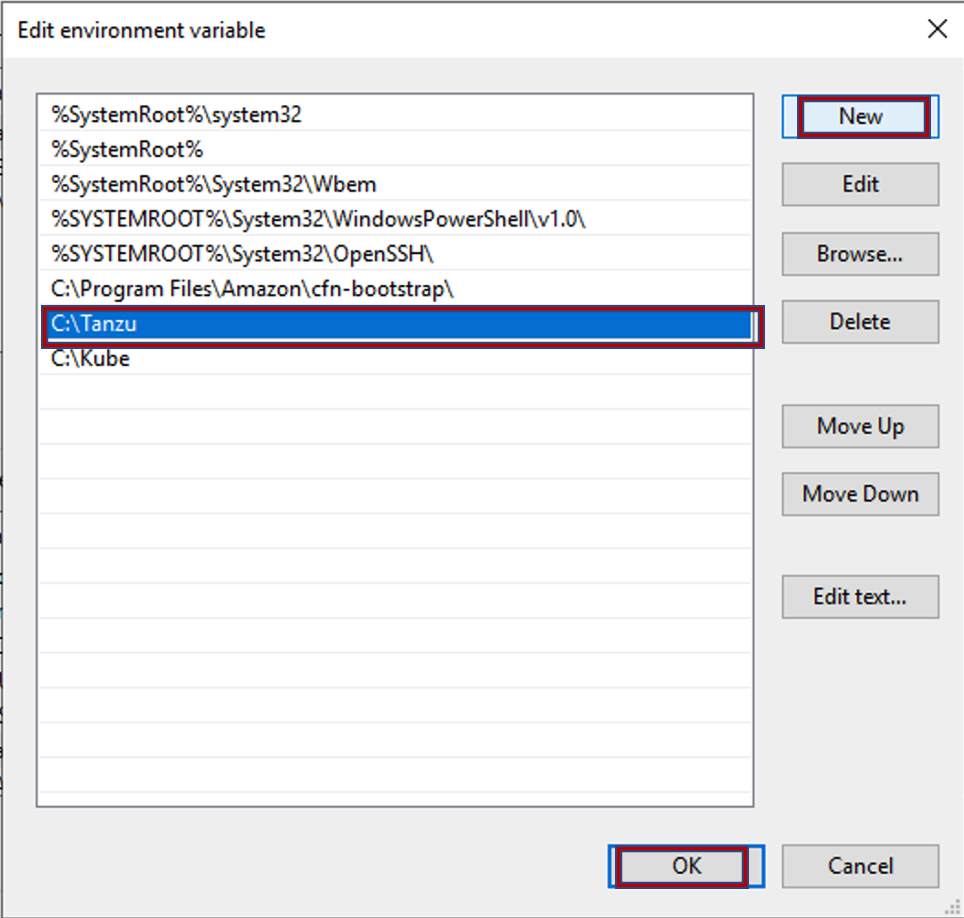
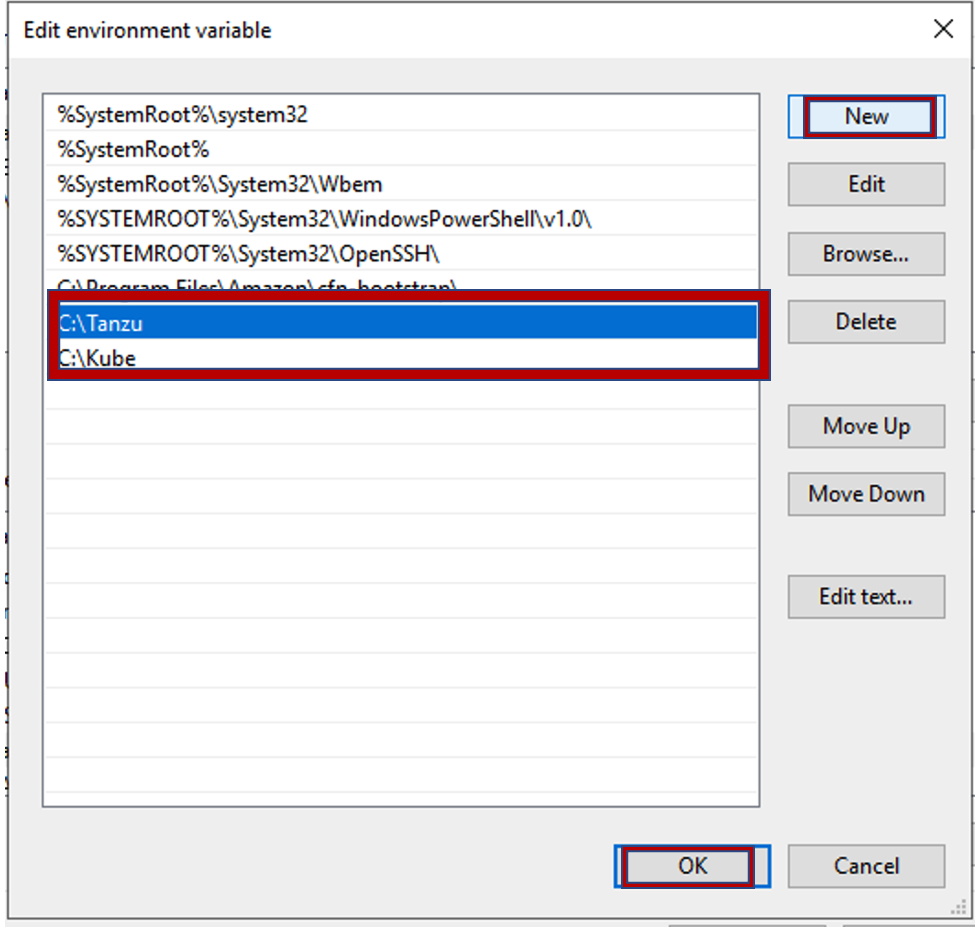
tanzu cli

Changed region(s): [[0.0, 0.0, 1.0, 1.0]]

diff --git a/docs/check.md b/docs/check.md
@@ -13,63 +13,48 @@ https://drive.google.com/drive/folders/1-z8_jvzTQd6FrGiGkFO5nyKsNA54l1ku 에서 
 ### 1. Putty 설치
 **0. 파일 준비** 에서 다운받은 putty를 클릭해 실행을 확인합니다.
 
-### 2. Tanzu CLI 설치
-C드라이브 아래에 tanzu 디렉토리를 생성하고, 다운로드한 Tanzu tar 파일 **(tanzu-framework-windows-amd64)** 을 이곳으로 이동시켜 압축을 해제합니다.  <br/>
+### 2. Tanzu CLI 준비
+**0. 파일 준비** 에서 받은 Tanzu CLI를 Windows 환경 변수에 추가하는 과정입니다.
 
+다운받은 Tanzu CLI 파일 **(tanzu-framework-windows-amd64)** 의 압축을 해제합니다. <br/>
+압축 해제 후 cli/core/v0.11.4 로 이동하면 tanzu-cre-windows_amd64 파일을 확인할 수 있습니다. <br/>
+![](../images/env_cli_00.png)
 
-Program Files\tanzu 디렉토리에서 실행 파일을 다음 위치로 이동하고 이름을 바꿉니다.
-
-기존 : Program Files\tanzu\cli\core\v0.11.2\tanzu-core-windows_amd64.exe
-<br/> 에서 <br>
-tar -xvf tanzu-framework-darwin-amd64.tar -C $HOME/tanzu
-
-
-Program Files 디렉토리에서 tanzu 디렉토리를 마우스 오른쪽 버튼으로 클릭하고 속성 > 보안을 선택합니다.
-
-사용자 계정에 모든 권한이 있는지 확인하십시오.
-
-Windows 검색을 사용하여 env를 검색합니다.
-
-시스템 환경 변수 편집을 선택하고 환경 변수를 클릭합니다.
-
-시스템 변수에서 경로 행을 선택하고 편집을 클릭하십시오.
-
-새로 만들기를 클릭하여 새 행을 추가하고 tanzu.exe의 경로를 입력합니다.
-
-환경 변수 TANZU_CLI_NO_INIT를 true로 설정하십시오.
-
-Program Files\tanzu 디렉토리의 터미널에서 다음을 실행하여 설치를 확인합니다.
-
-탄즈 버전
-예상되는 결과:
-
-버전: v0.11.2
-...
-Tanzu CLI 플러그인 설치/업데이트 진행
-
-### 3. kubectl CLI 설치
-**0. 파일 준비** 에서 받은 Kubectl을 Windows 환경 변수에 추가합니다.
-
-![](../images/env_set_00.png)
-C 드라이브 아래에 Kube라는 디렉토리를 생성하고, 다운받은 Kubectl 파일을 이곳으로 이동시킵니다. <br/>
-
-![](../images/env_set_01.png)
-Windows 키를 눌러 Advanced System Setting을 검색합니다.<br/>
-
-![](../images/env_set_02.png)
-창 맨 아래의 Environment Variables를 클릭합니다.<br/>
-
-![](../images/env_set_03.png)
-Path를 선택 후 Edit을 클릭합니다.<br/>
-
-![](../images/env_set_04.png)
-NEW 클릭 -> C:\Kube를 입력하고, OK 버튼을 클릭합니다. 처음에 열었던 Advanced System Setting 창이 닫힐 때 까지 OK를 클릭합니다.<br/>
-
-![](../images/env_set_05.png)
-cmd를 열어 kubectl version을 입력하고, 아래와 같이 버전 정보가 뜨는지 확인합니다.
-
+이 파일을 tanzu로 이름 변경 후 (추후 알기 쉽도록), C 드라이브 아래에 tanzu 라는 디렉토리를 생성하고 이곳으로 이동시킵니다.  <br/>
+![](../images/env_cli_01.png)
 <br/>
-### 4. VSCode IDE 및 TAP용 Plugin 설치
+
+이후 설치 과정은 **4. Tanzu CLI 및 Kubectl 설치** 에서 한번에 진행합니다. <br/>
+
+### 3. kubectl CLI 준비
+**0. 파일 준비** 에서 받은 Kubectl을 Windows 환경 변수에 추가하는 과정입니다.
+
+C 드라이브 아래에 Kube라는 디렉토리를 생성하고, 다운받은 Kubectl 파일을 이곳으로 이동시킵니다. <br/>
+![](../images/env_set_00.png)
+<br/>
+
+이후 설치 과정은 **4. Tanzu CLI 및 Kubectl 설치** 에서 한번에 진행합니다. <br/>
+
+### 4. Tanzu CLI 및 Kubectl 설치
+Windows 키를 눌러 Advanced System Setting을 검색합니다.<br/>
+![](../images/env_set_01.png)
+
+창 맨 아래의 Environment Variables를 클릭합니다.<br/>
+![](../images/env_set_02.png)
+
+Path를 선택 후 Edit을 클릭합니다.<br/>
+![](../images/env_set_03.png)
+
+NEW 클릭 -> C:\Tanzu 와 C:\Kube를 입력하고, OK 버튼을 클릭합니다. **처음에 열었던 Advanced System Setting 창이 닫힐 때 까지 OK를 클릭** 합니다.<br/>
+![](../images/env_set_04.png)
+
+cmd로 이동해 kubectl version을 입력해 kubectl 설치를 확인합니다.
+![](../images/env_set_05.png)
+
+마찬가지로 cmd에서 tanzu version을 입력해 tanzu cli 설치를 확인합니다.
+![](../images/env_set_06.png)
+
+### 5. VSCode IDE 및 TAP용 Plugin 설치
 
 #### 1) VSCode IDE 설치
 
